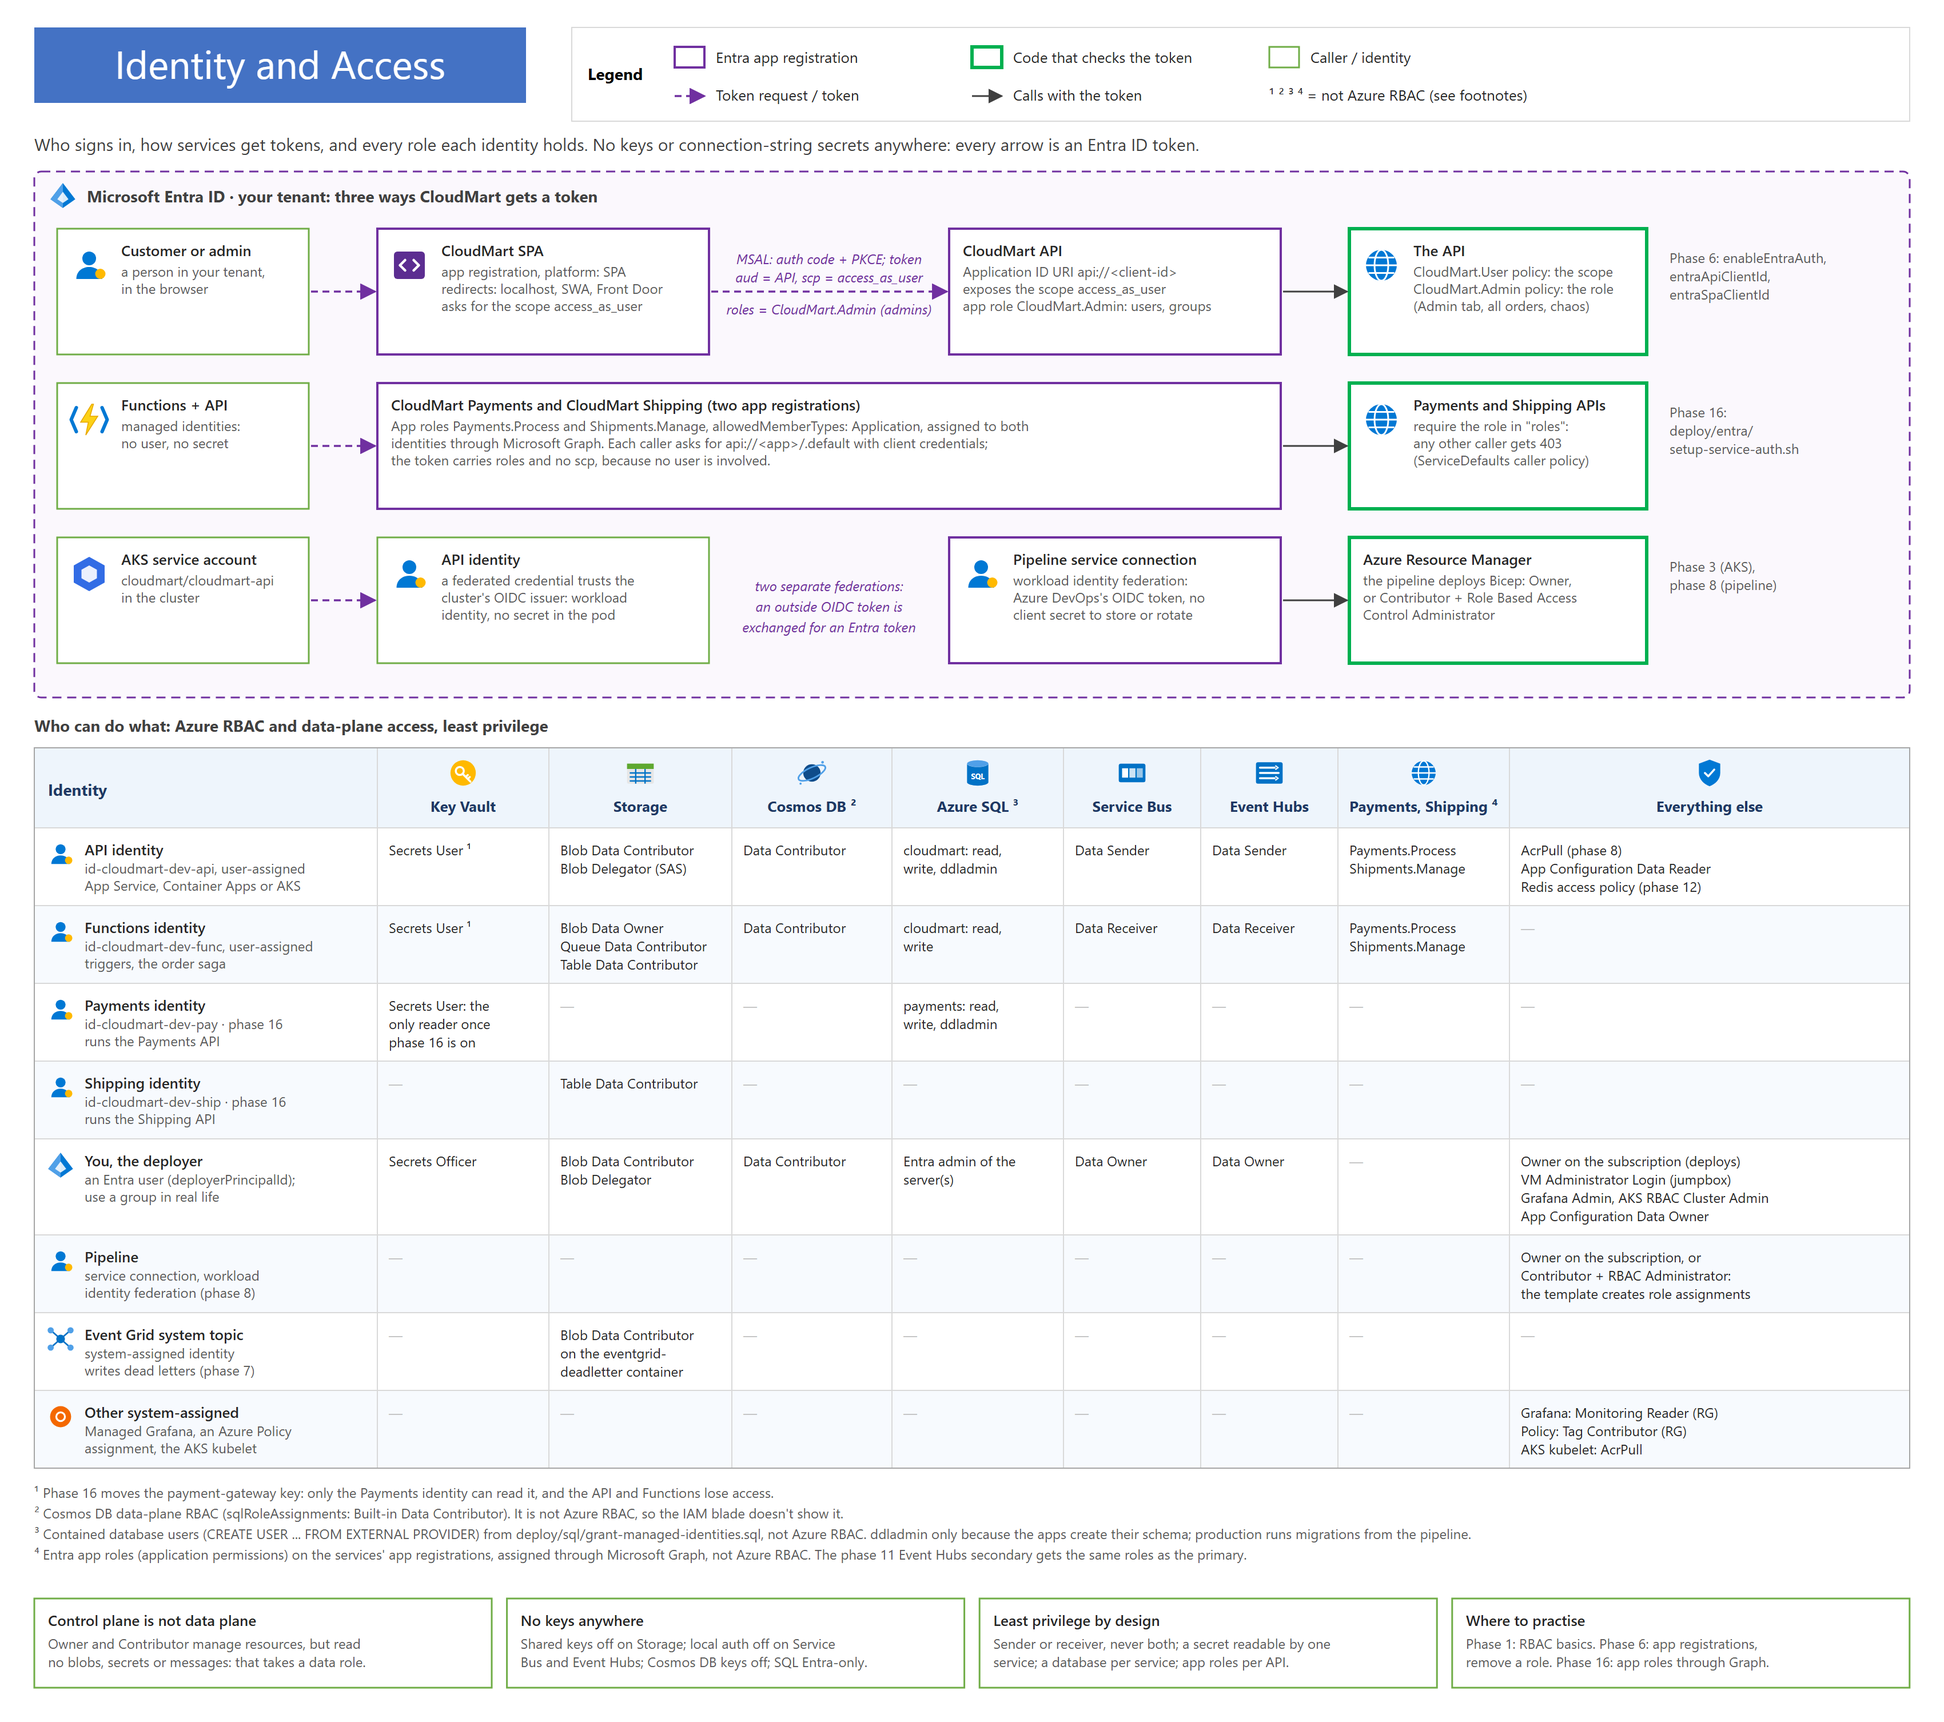
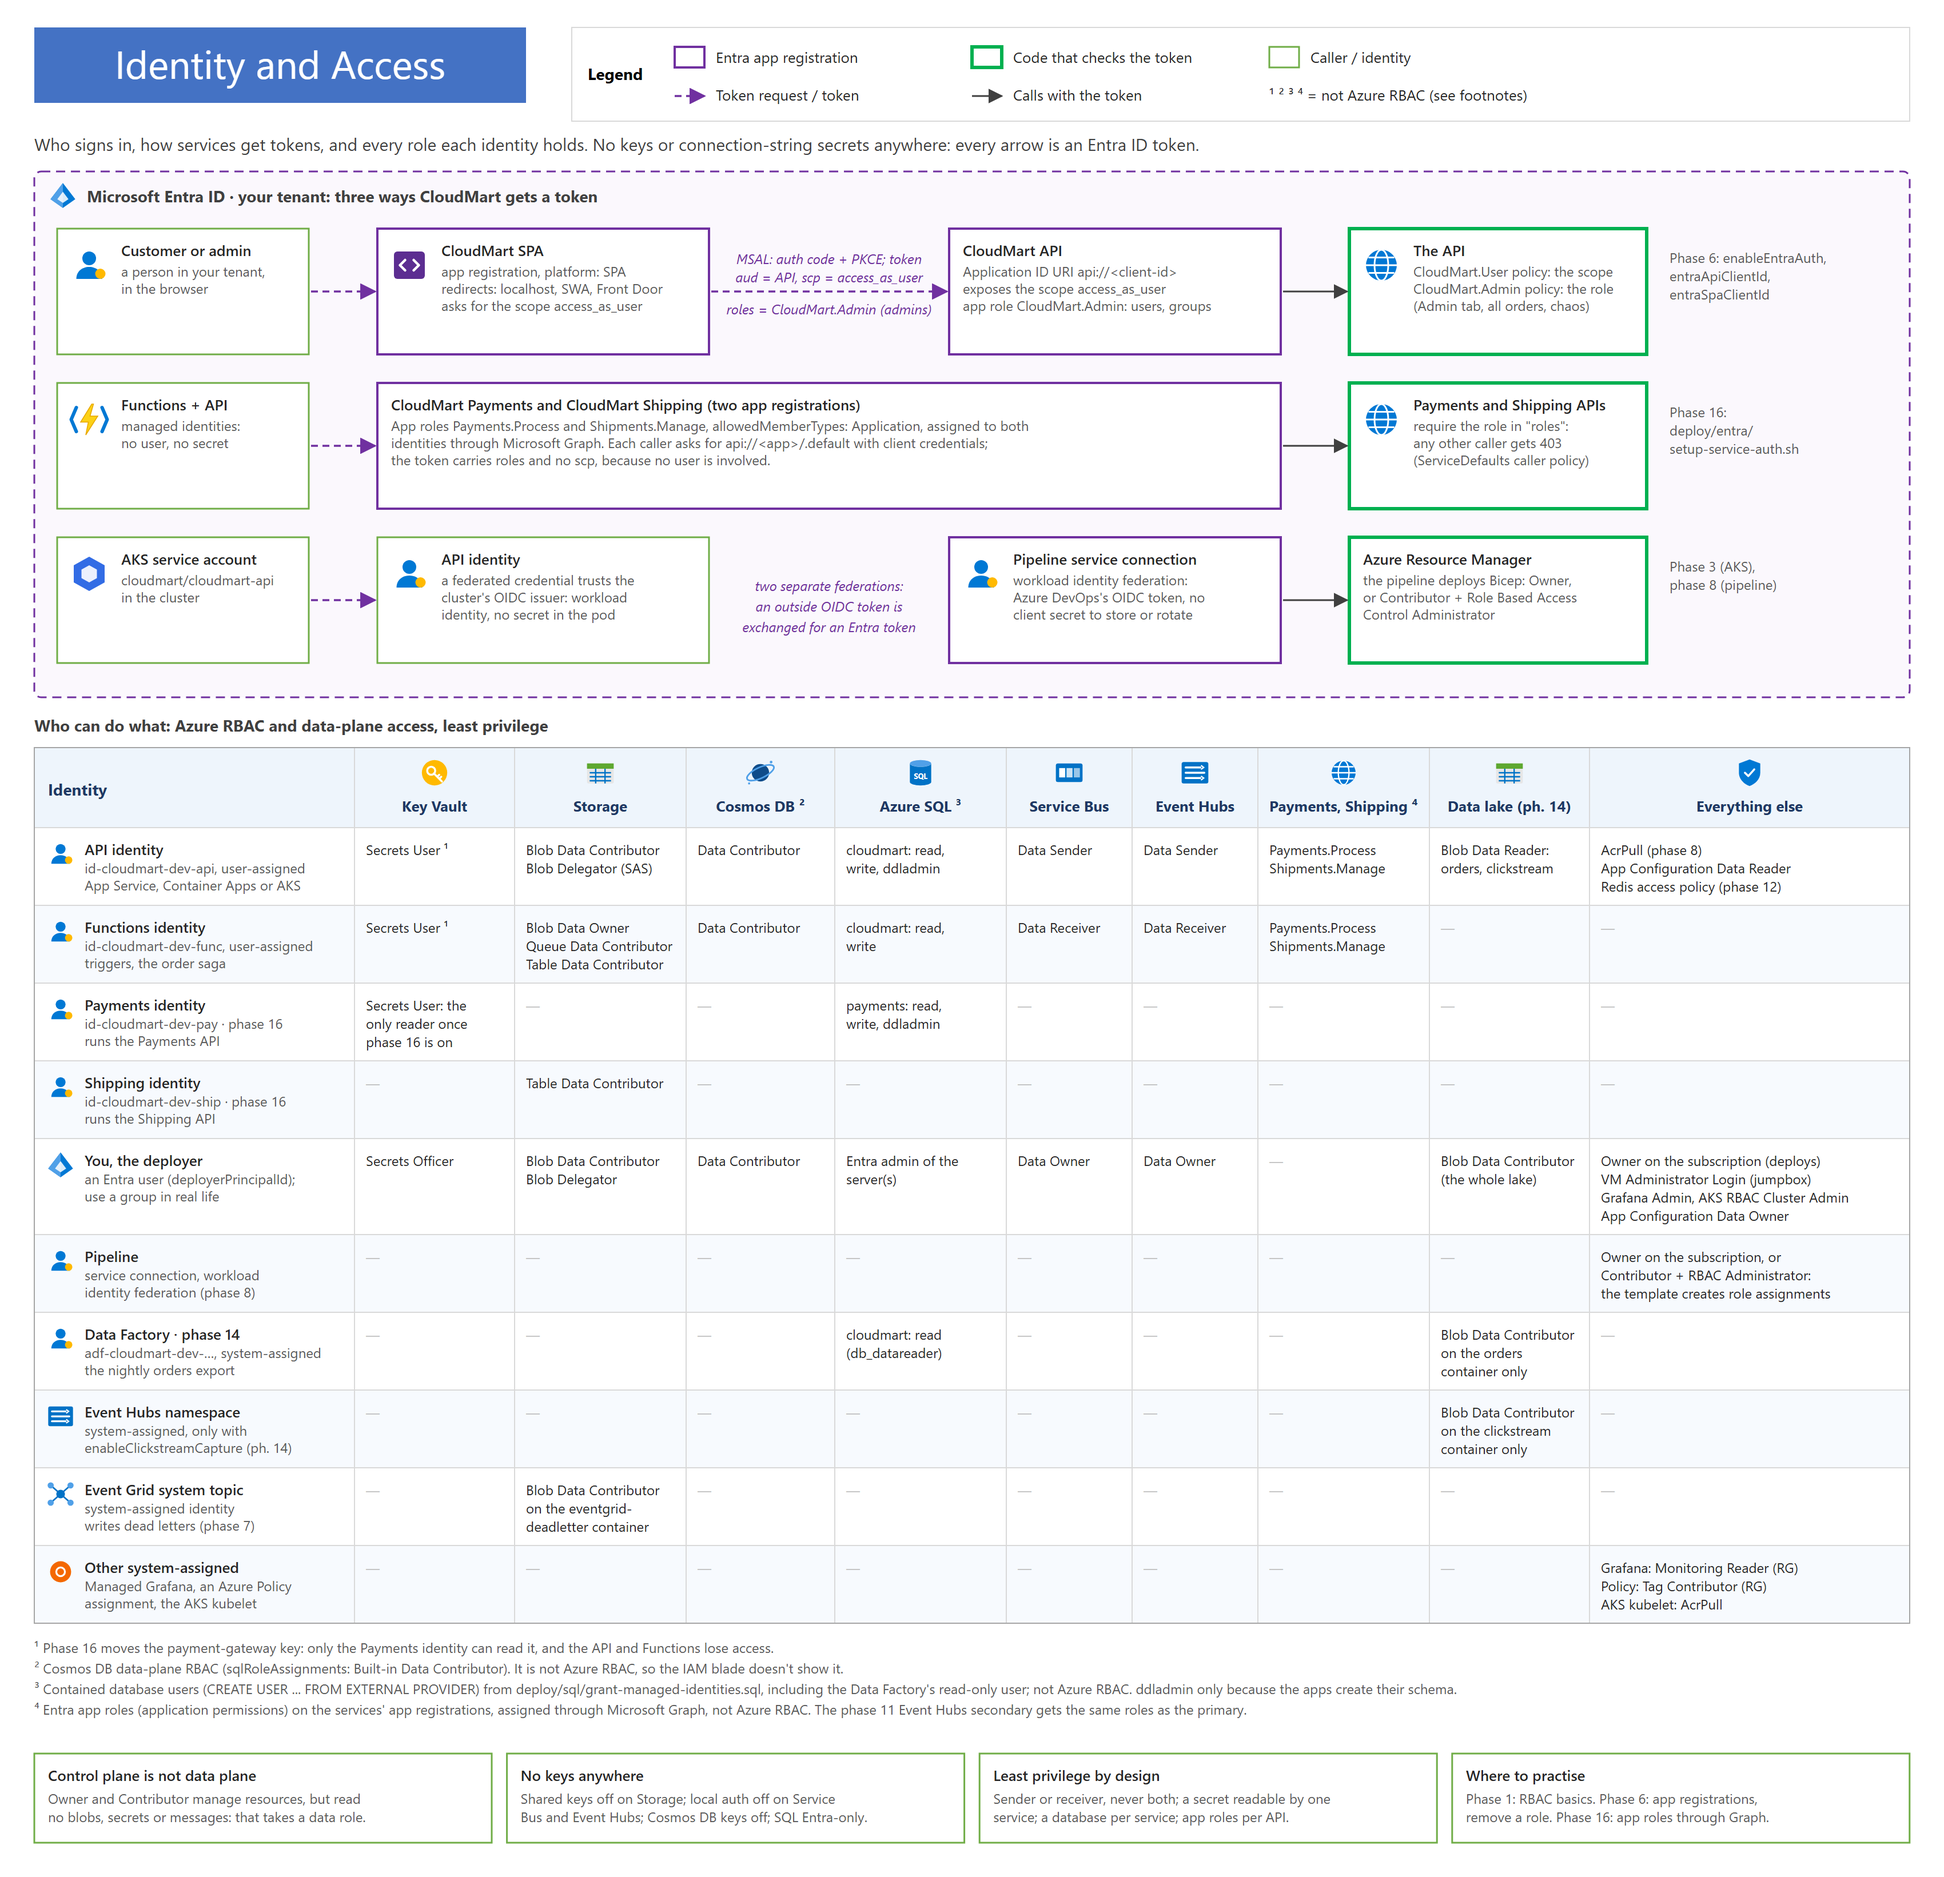
Add phase 14's identities to the identity view
Phase 14 (data lake, Data Factory export, Event Hubs Capture) added identities
and roles the identity diagram and the phase 6 table didn't show:
- Data Factory (system-assigned): Blob Data Contributor on the lake's orders
  container, and a read-only user on the cloudmart database.
- Event Hubs namespace (system-assigned, with enableClickstreamCapture): Blob
  Data Contributor on the clickstream container.
- API identity: Blob Data Reader on the orders and clickstream containers.
- You: Blob Data Contributor on the whole lake.

A new "Data lake" column and two rows in docs/identity.svg (re-rendered PNG)
and the phase 6 table; footnote 3 mentions the Data Factory's database user.

diff --git a/docs/learning-path.md b/docs/learning-path.md
@@ -477,21 +477,23 @@ private endpoint (≈ $7/month) and loses its public access. Service Bus Standar
 
 Below it is this matrix. Each row is an identity; each cell is the least it needs, and everything else is denied.
 
-| Identity | Key Vault | Storage | Cosmos DB ² | Azure SQL ³ | Service Bus | Event Hubs | Payments, Shipping ⁴ | Everything else |
-|---|---|---|---|---|---|---|---|---|
-| **API** (`id-…-api`) | Secrets User ¹ | Blob Data Contributor, Blob Delegator (SAS) | Data Contributor | `cloudmart`: read, write, ddladmin | Data Sender | Data Sender | Payments.Process, Shipments.Manage | AcrPull (phase 8), App Configuration Data Reader, Redis access policy (phase 12) |
-| **Functions** (`id-…-func`) | Secrets User ¹ | Blob Data Owner, Queue + Table Data Contributor | Data Contributor | `cloudmart`: read, write | Data Receiver | Data Receiver | Payments.Process, Shipments.Manage | — |
-| **Payments** (`id-…-pay`, phase 16) | Secrets User: the only reader | — | — | `payments`: read, write, ddladmin | — | — | — | — |
-| **Shipping** (`id-…-ship`, phase 16) | — | Table Data Contributor | — | — | — | — | — | — |
-| **You** (the deployer) | Secrets Officer | Blob Data Contributor, Blob Delegator | Data Contributor | Entra admin of the server(s) | Data Owner | Data Owner | — | Owner on the subscription; VM Administrator Login, Grafana Admin, AKS RBAC Cluster Admin, App Configuration Data Owner |
-| **Pipeline** (service connection) | — | — | — | — | — | — | — | Owner, or Contributor + Role Based Access Control Administrator, on the subscription |
-| **Event Grid system topic** | — | Blob Data Contributor, `eventgrid-deadletter` container only | — | — | — | — | — | — |
-| **Other system-assigned** | — | — | — | — | — | — | — | Grafana: Monitoring Reader; Policy remediation: Tag Contributor; AKS kubelet: AcrPull |
+| Identity | Key Vault | Storage | Cosmos DB ² | Azure SQL ³ | Service Bus | Event Hubs | Payments, Shipping ⁴ | Data lake (phase 14) | Everything else |
+|---|---|---|---|---|---|---|---|---|---|
+| **API** (`id-…-api`) | Secrets User ¹ | Blob Data Contributor, Blob Delegator (SAS) | Data Contributor | `cloudmart`: read, write, ddladmin | Data Sender | Data Sender | Payments.Process, Shipments.Manage | Blob Data Reader: `orders`, `clickstream` | AcrPull (phase 8), App Configuration Data Reader, Redis access policy (phase 12) |
+| **Functions** (`id-…-func`) | Secrets User ¹ | Blob Data Owner, Queue + Table Data Contributor | Data Contributor | `cloudmart`: read, write | Data Receiver | Data Receiver | Payments.Process, Shipments.Manage | — | — |
+| **Payments** (`id-…-pay`, phase 16) | Secrets User: the only reader | — | — | `payments`: read, write, ddladmin | — | — | — | — | — |
+| **Shipping** (`id-…-ship`, phase 16) | — | Table Data Contributor | — | — | — | — | — | — | — |
+| **You** (the deployer) | Secrets Officer | Blob Data Contributor, Blob Delegator | Data Contributor | Entra admin of the server(s) | Data Owner | Data Owner | — | Blob Data Contributor (the whole lake) | Owner on the subscription; VM Administrator Login, Grafana Admin, AKS RBAC Cluster Admin, App Configuration Data Owner |
+| **Pipeline** (service connection) | — | — | — | — | — | — | — | — | Owner, or Contributor + Role Based Access Control Administrator, on the subscription |
+| **Data Factory** (system-assigned, phase 14) | — | — | — | `cloudmart`: read (`db_datareader`) | — | — | — | Blob Data Contributor, `orders` container only | — |
+| **Event Hubs namespace** (system-assigned, with `enableClickstreamCapture`) | — | — | — | — | — | — | — | Blob Data Contributor, `clickstream` container only | — |
+| **Event Grid system topic** | — | Blob Data Contributor, `eventgrid-deadletter` container only | — | — | — | — | — | — | — |
+| **Other system-assigned** | — | — | — | — | — | — | — | — | Grafana: Monitoring Reader; Policy remediation: Tag Contributor; AKS kubelet: AcrPull |
 
 ¹ From phase 16, only the Payments identity can read the payment-gateway key.
 ² Cosmos DB data-plane RBAC (`sqlRoleAssignments`), not Azure RBAC: the *Access control (IAM)* blade doesn't show it.
-³ Contained database users from [grant-managed-identities.sql](../deploy/sql/grant-managed-identities.sql), not Azure
-RBAC. `ddladmin` is only there because the apps create their own schema.
+³ Contained database users from [grant-managed-identities.sql](../deploy/sql/grant-managed-identities.sql), including
+the phase 14 Data Factory's read-only user. Not Azure RBAC. `ddladmin` is only there because the apps create their own schema.
 ⁴ Entra app roles assigned through Microsoft Graph, not Azure RBAC.
 
 **Exercise:** open the resource group's *Access control (IAM) → Role assignments*, then find which rows of the table
